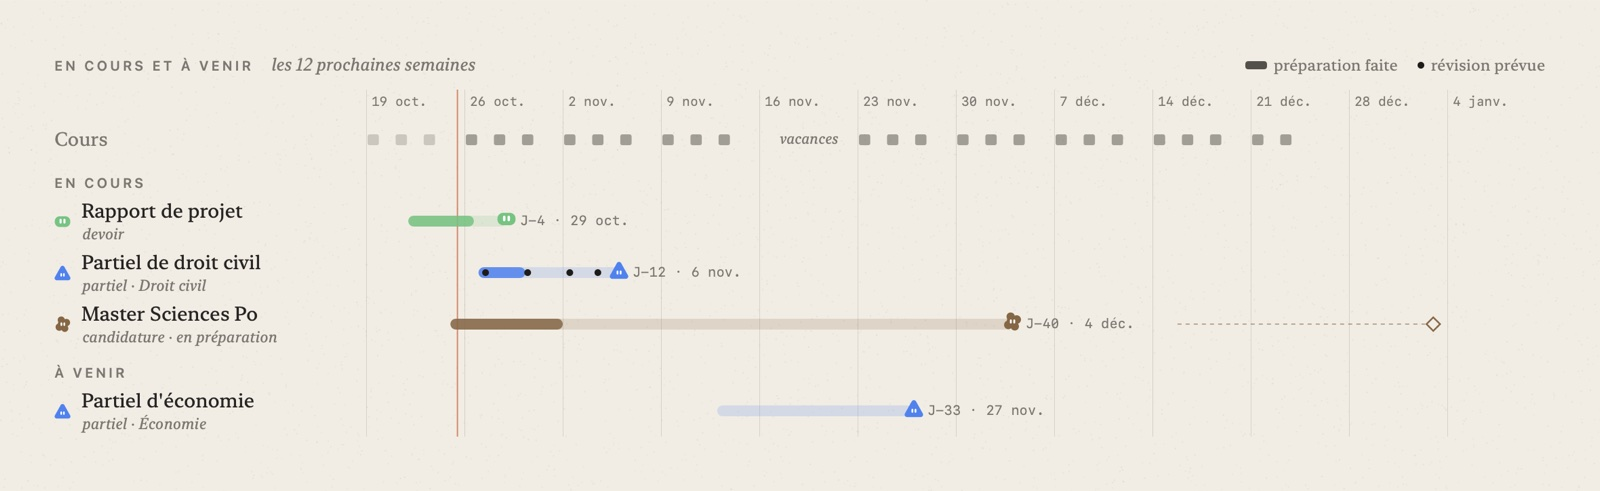
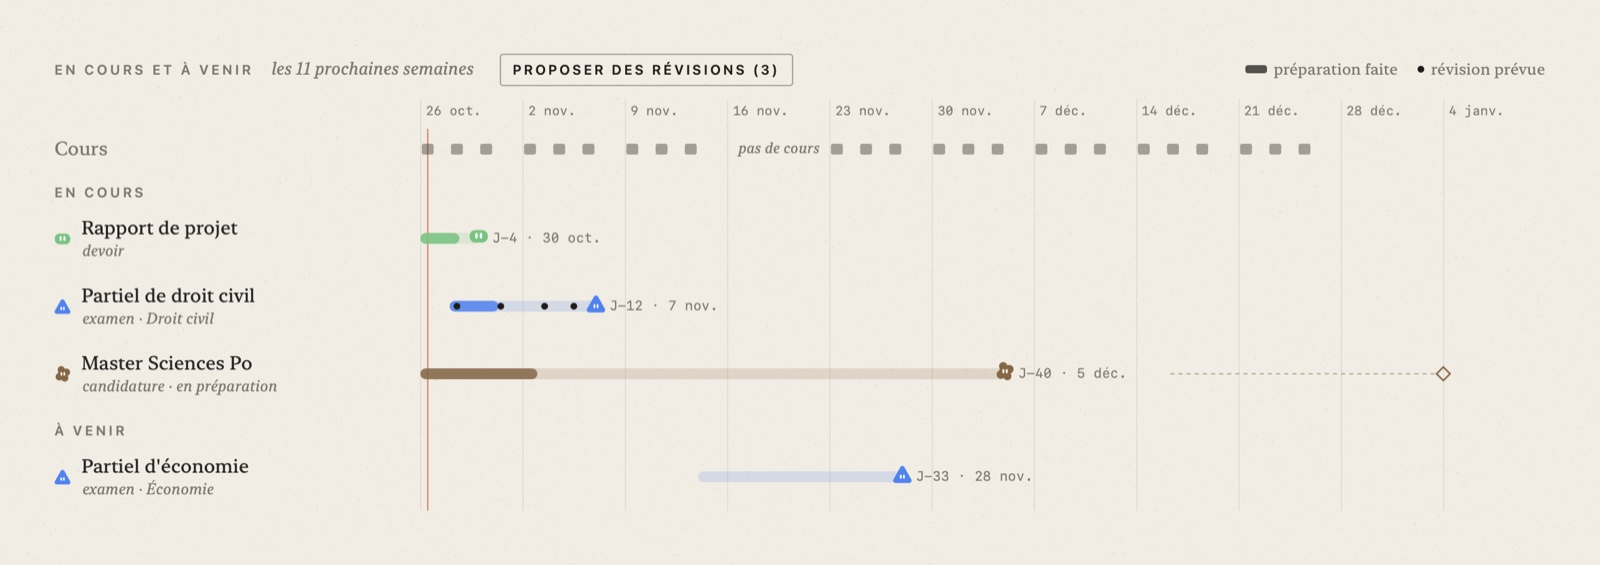
Mochi 1.8 : études mieux comprises, révisions proposées, visites automatiques

diff --git a/index.html b/index.html
@@ -80,7 +80,7 @@
     <h1>Mochi</h1>
     <p class="lede">Un petit compagnon qui vit sur ton Dock. Il tient tes habitudes, ton agenda, tes partiels et ton budget, et il change de mine selon ta semaine.</p>
     <a class="download" href="https://github.com/Tasswest/mochi/releases/latest/download/Mochi.dmg">↓ Télécharger Mochi</a>
-    <div class="meta">Version 1.6 · macOS 14 Sonoma ou plus récent · puce Apple ou Intel · signé et vérifié par Apple</div>
+    <div class="meta">Version 1.8 · macOS 14 Sonoma ou plus récent · puce Apple ou Intel · signé et vérifié par Apple</div>
     <figure>
       <img src="img/aujourdhui.jpg" alt="La page Aujourd'hui de Mochi : habitudes, tâches, échéances et emploi du temps" width="1600" height="1460">
       <figcaption>La page « Aujourd'hui » : ce qui compte, sur une seule feuille.</figcaption>
@@ -90,7 +90,24 @@
 
 <section>
   <div class="wrap">
-    <div class="caps">Nouveau dans les 1.3 à 1.6</div>
+    <div class="caps">Nouveau dans les 1.7 et 1.8</div>
+    <h2>Tes études, enfin bien rangées</h2>
+    <div class="new">
+      <div><h3>Il comprend tes échéances</h3><p>« DS », « essai », « oral » : un examen en classe. « Rendu », « dossier » : un devoir à rendre. « Finir le portfolio » : un truc perso. Et il les range dans le bon cours, abréviations comprises (HdA, maths…).</p></div>
+      <div><h3>Colle ta liste</h3><p>Toutes tes dates d'un coup, telles que tu les as notées. Mochi devine le type, le cours, repère les dates passées et « le 7 ou le 14 janvier » ; tu vérifies avant d'ajouter.</p></div>
+      <div><h3>Des révisions là où il en manque</h3><p>Un bouton propose des séances pour chaque examen ou devoir qui n'en a pas assez, dans tes moments libres, jamais sur un cours.</p></div>
+      <div><h3>Les visites, toutes seules</h3><p>Chaque fois qu'un ami coche une habitude partagée, son personnage vient te le dire — avec son écharpe ou son chapeau. Si ton Mac est verrouillé, la visite attend ton retour.</p></div>
+    </div>
+    <div class="pair">
+      <figure style="margin:0"><img src="img/revisions.jpg" alt="Les séances de révision proposées pour chaque échéance" loading="lazy"><figcaption>Des séances pour ce qui en manque</figcaption></figure>
+      <figure style="margin:0;display:flex;flex-direction:column;justify-content:center;align-items:center;background:#f2ede3;border:1px solid var(--rule);border-radius:6px"><img src="img/visiteur.png" alt="Le personnage d'un ami en visite, avec son écharpe et son chapeau" loading="lazy" style="width:160px;border:none"><figcaption style="padding:0 16px 14px">En visite, avec ses accessoires</figcaption></figure>
+    </div>
+  </div>
+</section>
+
+<section>
+  <div class="wrap">
+    <div class="caps">Depuis la 1.3</div>
     <h2>Des habitudes à plusieurs</h2>
     <div class="new">
       <div><h3>À ton rythme</h3><p>« Faire le ménage » deux fois par mois, « dentiste » deux fois par an : l'habitude revient dans « Aujourd'hui » au bon moment, puis attend le mois ou l'année suivante.</p></div>
